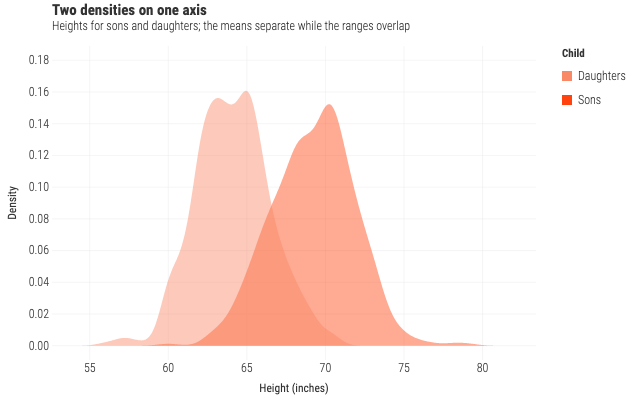
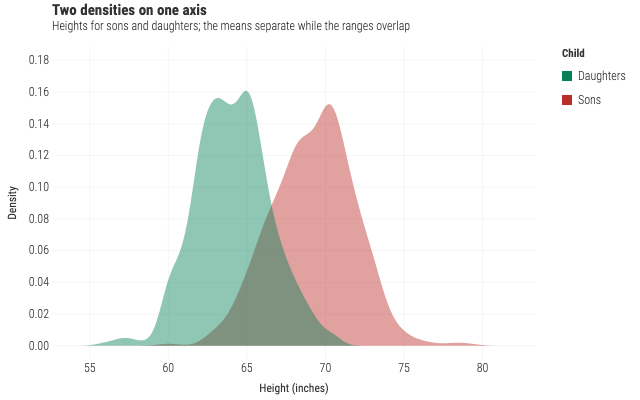
fix(examples): replace canva fills with contrast-first schemes
Canva first two stops are both warm coral, so density/overlay and
rect/regions read as monochrome salmon. Use wsj_red_green (exact 2-stop)
for the two densities and few_light (soft blue/orange for fills) for the
economist reign bands so categories separate and the line still reads.

Recapture gallery lights for both examples.

Changed region(s): [[0.125, 0.21, 0.7188, 0.87], [0.875, 0.24, 0.9062, 0.27], [0.875, 0.18, 0.9062, 0.21]]

diff --git a/examples/rect/regions/Example.svelte b/examples/rect/regions/Example.svelte
@@ -32,7 +32,7 @@
     linewidth={2}
   />
   <ScaleXContinuous labels="d" />
-  <ScaleFillDiscrete domain={["Monarchy", "Commonwealth"]} scheme="canva" />
+  <ScaleFillDiscrete domain={["Monarchy", "Commonwealth"]} scheme="few_light" />
   <ThemeEconomist />
   <Labs
     title="Background rectangles for eras"

diff --git a/examples/density/overlay/Example.svelte b/examples/density/overlay/Example.svelte
@@ -18,7 +18,7 @@
   height={400}
 >
   <GeomDensity alpha={0.45} />
-  <ScaleFillDiscrete domain={["Daughters", "Sons"]} scheme="canva" />
+  <ScaleFillDiscrete domain={["Daughters", "Sons"]} scheme="wsj_red_green" />
   <ThemeMinimal />
   <Labs
     title="Two densities on one axis"

diff --git a/examples/rect/regions/spec.ts b/examples/rect/regions/spec.ts
@@ -28,7 +28,7 @@ export default defineExample(
     })
     .scaleFillDiscrete({
       domain: ["Monarchy", "Commonwealth"],
-      scheme: "canva",
+      scheme: "few_light",
     })
     .scales({ x: { labels: "d" } })
     .theme("economist")

diff --git a/examples/density/overlay/spec.ts b/examples/density/overlay/spec.ts
@@ -8,7 +8,7 @@ export default defineExample(
     .geomDensity({ alpha: 0.45 })
     .scaleFillDiscrete({
       domain: ["Daughters", "Sons"],
-      scheme: "canva",
+      scheme: "wsj_red_green",
     })
     .theme("minimal")
     .labs({
